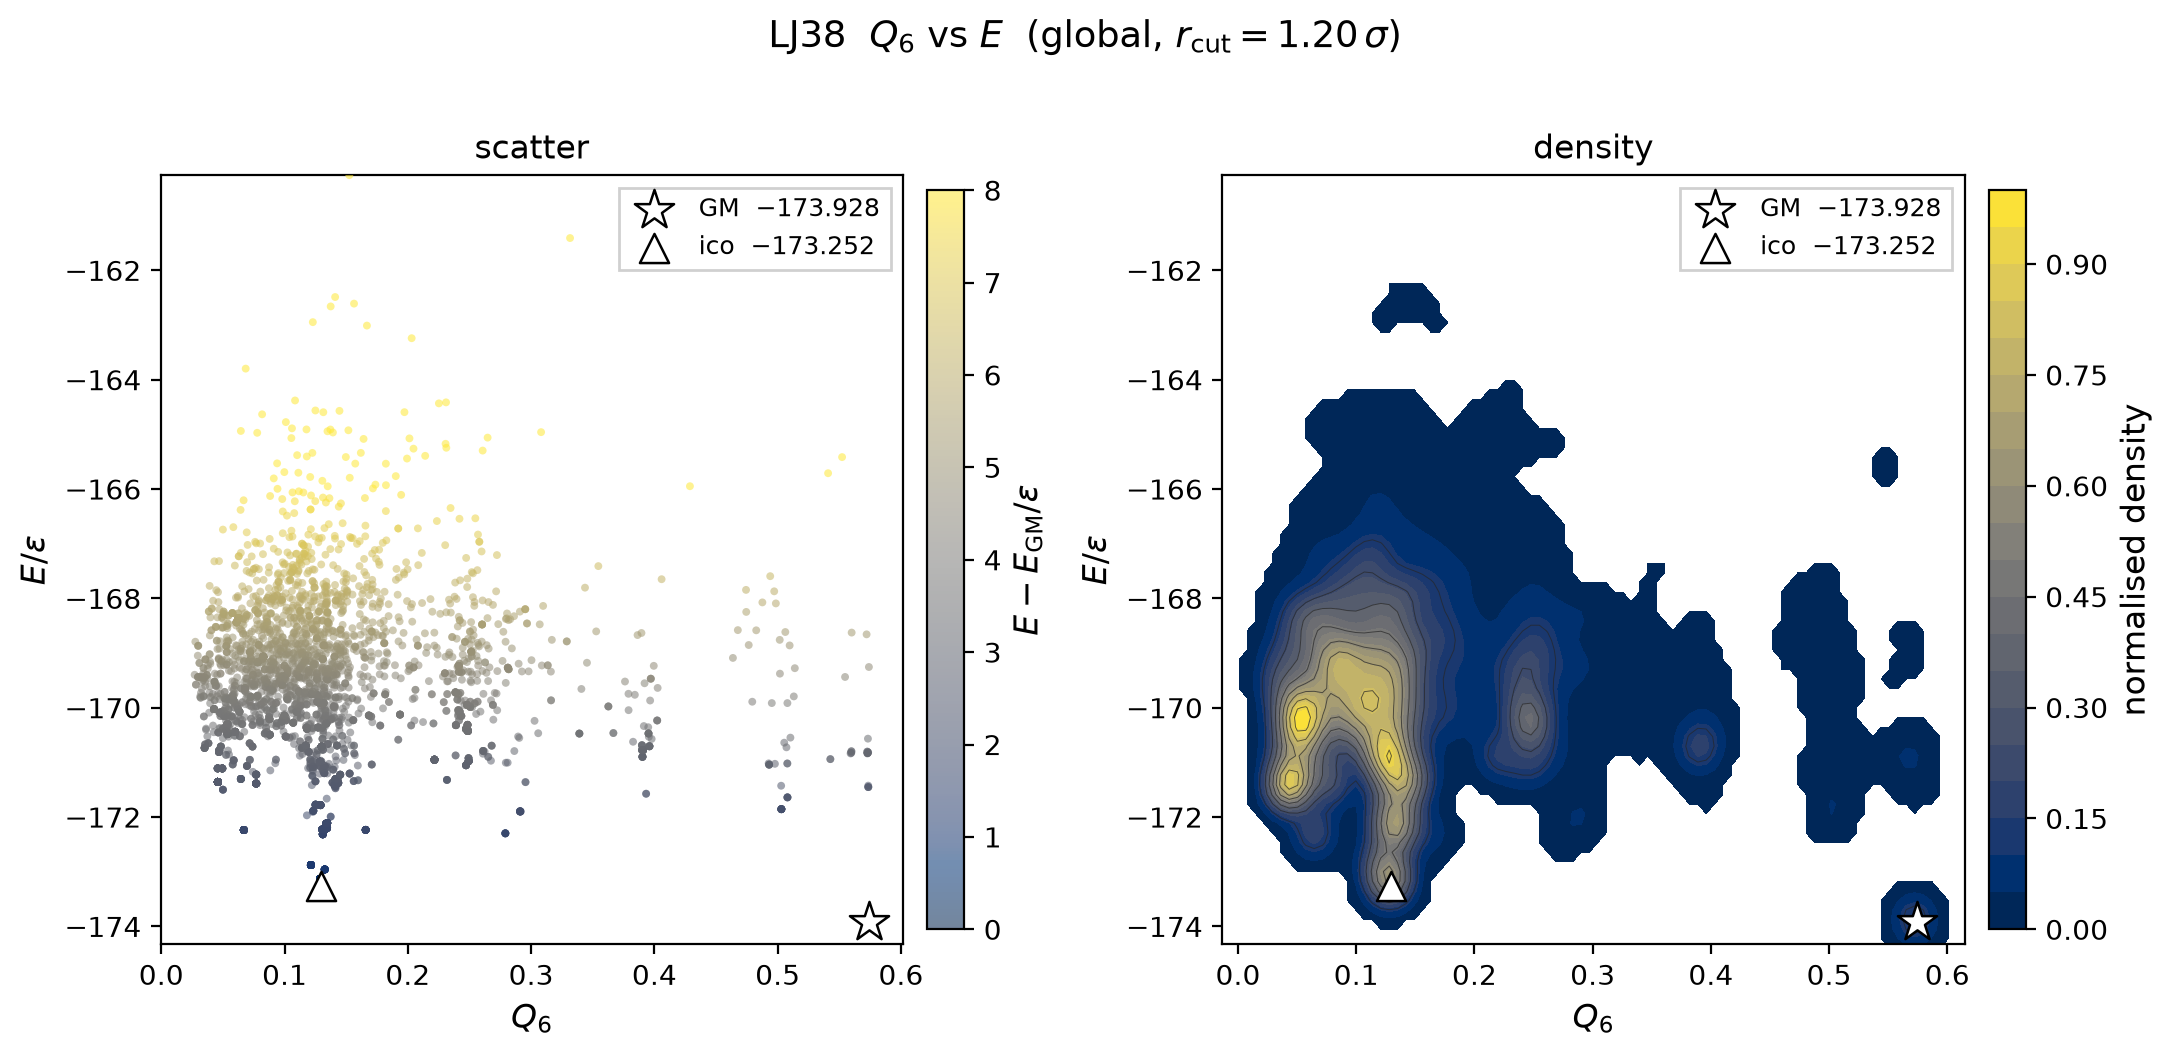
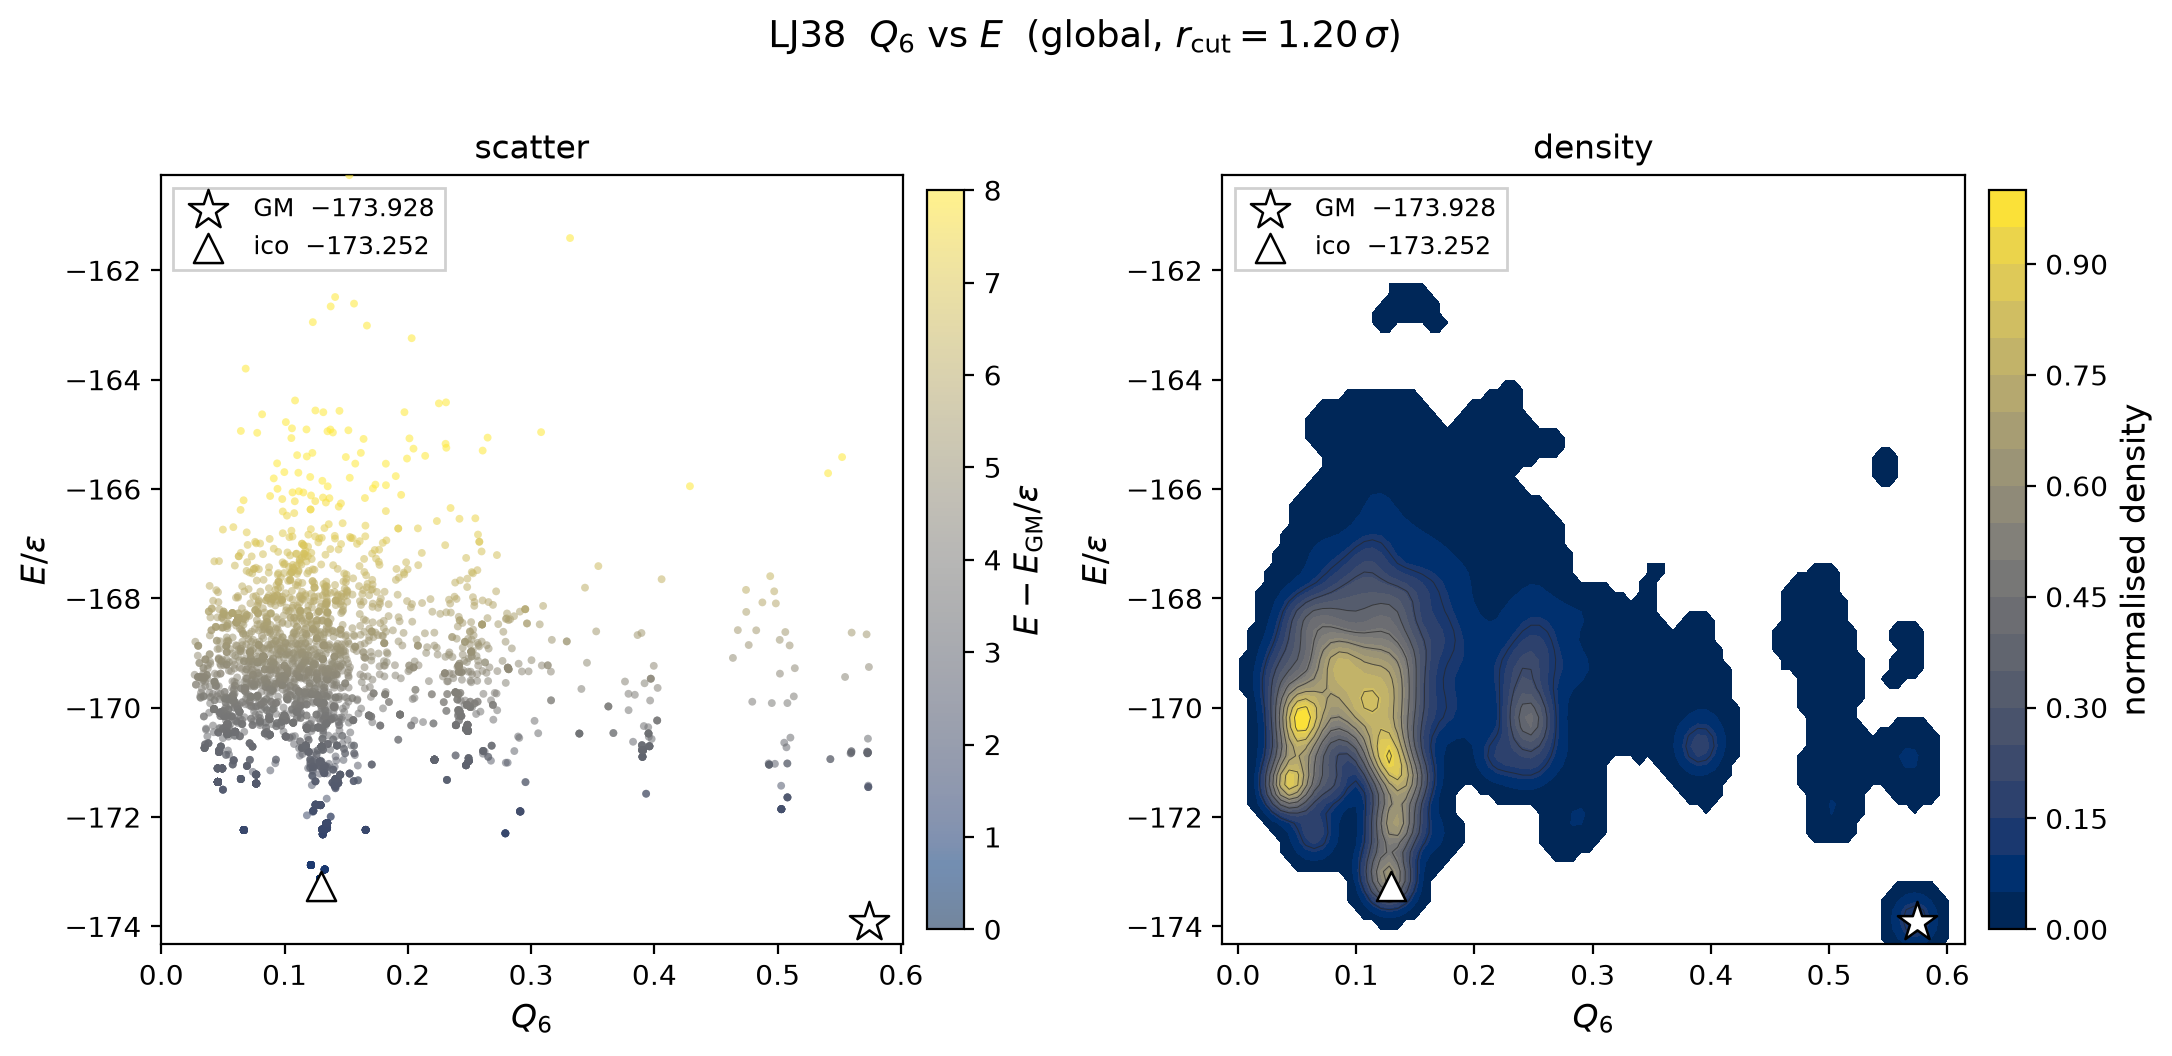
fix: keep LJ38 Q4-Q6 well floors at the inherent energies
Dilate the GM and ico islands and skip blur on occupied cells so the
energy fill sits at 0 and 0.676 rather than the smeared IMQ average.

diff --git a/scripts/occ_book_q6.py b/scripts/occ_book_q6.py
@@ -156,9 +156,6 @@ def split_score(book: dict[str, np.ndarray], gm: int, ico: int, kind: str) -> di
     d4 = float(q4[gm] - q4[ico])
     d6 = float(q6[gm] - q6[ico])
     sep = float(math.hypot(d4, d6))
-    # overlap: fraction of all minima whose (Q4,Q6) sits in both
-    # 1-sigma balls around the two motifs (using the motif copies)
-    e = None
     return {
         "dQ4": d4,
         "dQ6": d6,
@@ -264,7 +261,26 @@ def energy_field(xy: np.ndarray, values: np.ndarray, ngrid: int = 220, pad: floa
         if e < grid[i, j]:
             grid[i, j] = e
     occupied = np.isfinite(grid)
-    # IDW fill of masked empty cells from occupied cell centres
+    def _dilate(m: np.ndarray) -> np.ndarray:
+        out = m.copy()
+        out[1:, :] |= m[:-1, :]
+        out[:-1, :] |= m[1:, :]
+        out[:, 1:] |= m[:, :-1]
+        out[:, :-1] |= m[:, 1:]
+        return out
+
+    # grow the two deep motif islands so they read as wells, not pixels
+    deep = occupied & (grid < 1.2)
+    grown = _dilate(_dilate(deep))
+    # each new cell takes the min of neighbouring already-set deep cells
+    for _ in range(2):
+        for i, j in zip(*np.where(grown & ~occupied)):
+            nb = grid[max(i - 1, 0) : i + 2, max(j - 1, 0) : j + 2]
+            nb = nb[np.isfinite(nb)]
+            if nb.size:
+                grid[i, j] = float(nb.min())
+                occupied[i, j] = True
+
     cy, cx = np.where(occupied)
     src = np.column_stack([gu[cx], gv[cy]])
     sval = grid[occupied]
@@ -286,13 +302,14 @@ def energy_field(xy: np.ndarray, values: np.ndarray, ngrid: int = 220, pad: floa
             num = w @ sval
             filled[i0:i1] = np.where(den > 0, num / np.clip(den, 1e-12, None), np.nan)
         field[qy, qx] = filled
-    # light blur of finite cells only
+    # blur only the interpolated (non-occupied) cells
     finite = np.isfinite(field)
     fill = np.where(finite, field, 0.0)
     wgt = finite.astype(np.float64)
     fill_b = _blur(fill, passes=2)
     wgt_b = _blur(wgt, passes=2)
-    field = np.where(mask & (wgt_b > 0.15), fill_b / np.clip(wgt_b, 1e-12, None), np.nan)
+    blurred = fill_b / np.clip(wgt_b, 1e-12, None)
+    field = np.where(occupied, field, np.where(mask & (wgt_b > 0.15), blurred, np.nan))
     return gx, gy, field, dens
 
 
@@ -365,12 +382,18 @@ def mark(ax, gm_xy, ico_xy, gm_e, ico_e) -> None:
         zorder=7,
         label=rf"ico  ${ico_e:.3f}$",
     )
-    ax.legend(handles=[h1, h2], loc="best", frameon=True, fancybox=False, framealpha=0.92)
+    ax.legend(
+        handles=[h1, h2],
+        loc="upper left",
+        frameon=True,
+        fancybox=False,
+        framealpha=0.92,
+    )
 
 
 def plot_q6q4(xy, rel, gm, ico, energy, kind, r_cut, dest: Path, extra: Path | None) -> dict:
     print("IDW/envelope fill ...", flush=True)
-    gx, gy, ehat, _dens = energy_field(xy, rel, ngrid=220, pad=0.10, cutoff=0.05, power=4.0)
+    gx, gy, ehat, _dens = energy_field(xy, rel, ngrid=220, pad=0.14, cutoff=0.05, power=4.0)
     print("fill done", flush=True)
     e_clip = 6.0
     painted = np.clip(ehat, 0.0, e_clip)
